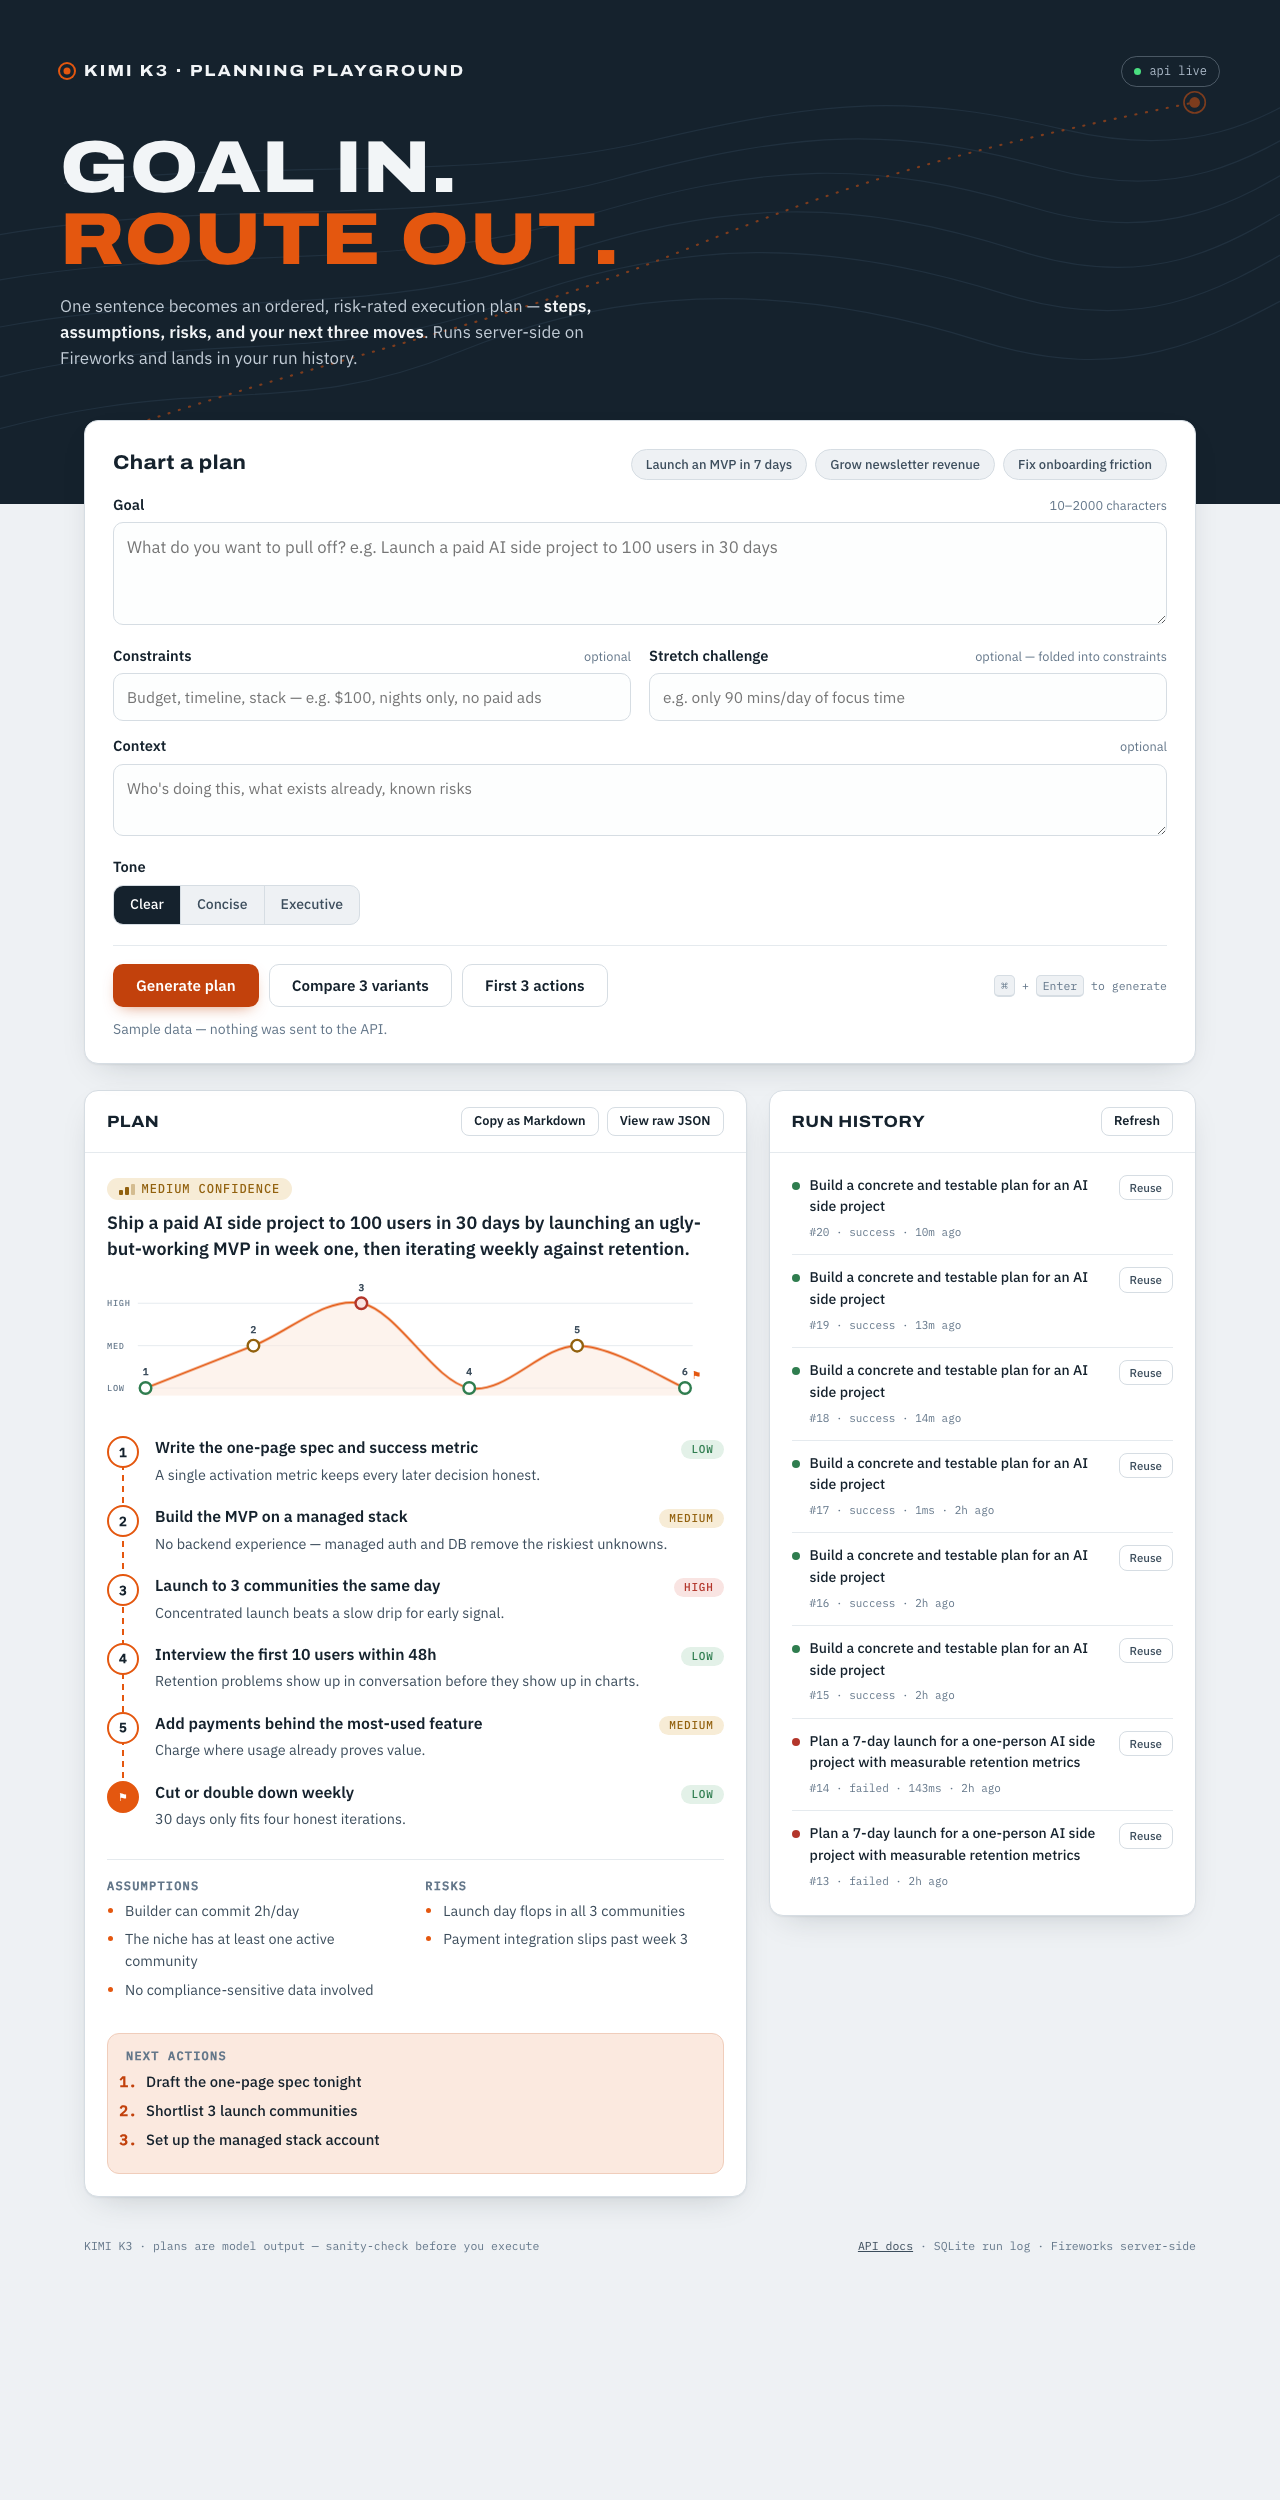
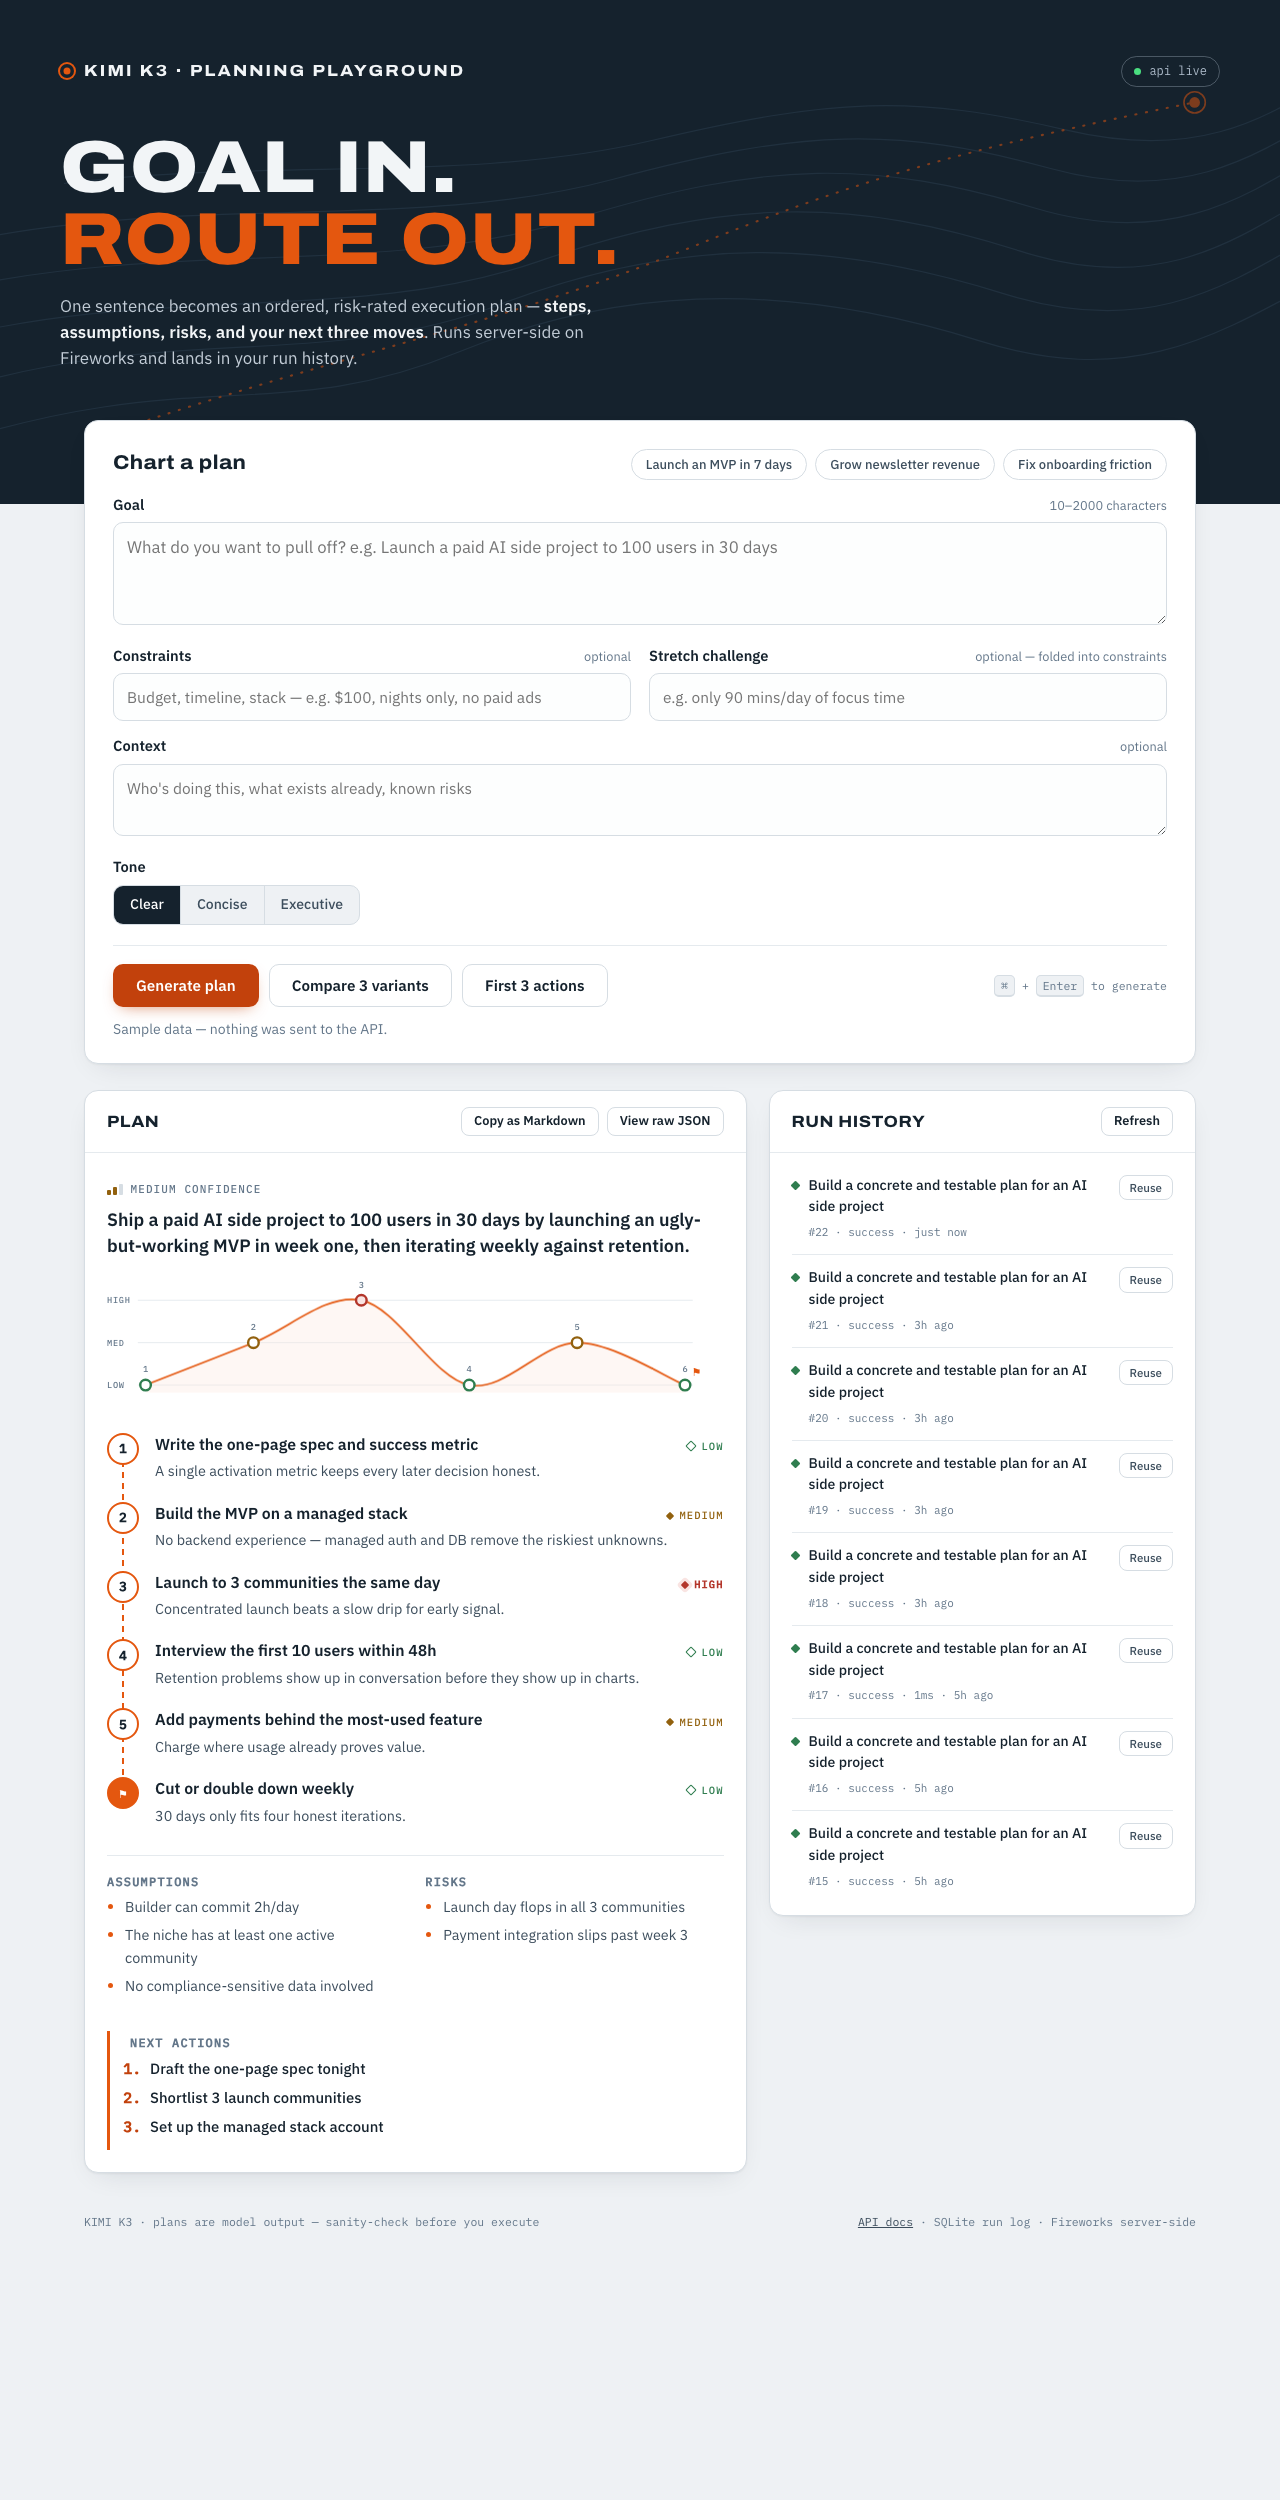
style(ui): polish pass — retire traffic-light pills for editorial risk markers
- risk badges: colored wash pills → typographic mono labels with a diamond
  marker (outline = low, filled = medium, filled + halo = high)
- confidence: colored pill → neutral mono label, severity carried by the
  bars alone
- next-actions: orange wash box → editorial left-rule block
- meta line: drop the invented score chip; quieter status chip
- run-history dots become diamonds, echoing the risk markers
- strip: finer trail (1.75), subtler shade (0.35), smaller waypoints
- softer panel shadow; sample chips flattened

Frontend-only. Screenshots 07-09 refreshed.

diff --git a/static/index.html b/static/index.html
@@ -31,7 +31,7 @@
         --sans: "IBM Plex Sans", system-ui, -apple-system, "Segoe UI", sans-serif;
         --display: "Archivo", "Archivo Black", var(--sans);
         --radius: 14px;
-        --shadow: 0 1px 2px rgba(21, 34, 45, 0.06), 0 12px 32px -16px rgba(21, 34, 45, 0.25);
+        --shadow: 0 1px 2px rgba(21, 34, 45, 0.05), 0 10px 28px -14px rgba(21, 34, 45, 0.16);
       }
 
       * { box-sizing: border-box; }
@@ -178,14 +178,14 @@
       .sample-chip {
         font: 500 13px/1 var(--sans);
         color: var(--ink-soft);
-        background: var(--paper);
+        background: transparent;
         border: 1px solid var(--line);
         border-radius: 999px;
         padding: 8px 14px;
         cursor: pointer;
-        transition: border-color 120ms ease, color 120ms ease, background 120ms ease;
+        transition: border-color 120ms ease, color 120ms ease;
       }
-      .sample-chip:hover { border-color: var(--signal); color: var(--signal); background: var(--signal-wash); }
+      .sample-chip:hover { border-color: var(--signal); color: var(--signal); }
 
       .field { margin-top: 14px; }
       .field label {
@@ -376,7 +376,8 @@
         border: 1px solid var(--line);
         color: var(--ink-soft);
       }
-      .chip.status-success { background: var(--risk-low-wash); border-color: transparent; color: var(--risk-low); }
+      .chip.status-success { background: transparent; border-color: var(--line-soft); color: var(--risk-low); }
+      .chip.status-sample { background: transparent; border-color: var(--line-soft); color: var(--ink-faint); }
 
       .budget {
         display: flex;
@@ -401,25 +402,21 @@
       .confidence {
         display: inline-flex;
         align-items: center;
-        gap: 7px;
-        font: 500 12px/1 var(--mono);
+        gap: 8px;
+        font: 500 11px/1 var(--mono);
         text-transform: uppercase;
-        letter-spacing: 0.08em;
-        border-radius: 999px;
-        padding: 5px 12px;
-        margin-bottom: 10px;
+        letter-spacing: 0.1em;
+        color: var(--ink-faint);
+        margin-bottom: 12px;
       }
       .confidence .bars { display: inline-flex; gap: 2.5px; align-items: flex-end; }
-      .confidence .bars i { width: 3.5px; border-radius: 1px; background: currentColor; opacity: 0.35; }
+      .confidence .bars i { width: 3.5px; border-radius: 1px; background: var(--line); }
       .confidence .bars i:nth-child(1) { height: 5px; }
       .confidence .bars i:nth-child(2) { height: 8px; }
       .confidence .bars i:nth-child(3) { height: 11px; }
-      .confidence.c-low i:nth-child(1) { opacity: 1; }
-      .confidence.c-medium i:nth-child(-n+2) { opacity: 1; }
-      .confidence.c-high i { opacity: 1; }
-      .confidence.c-low { background: var(--risk-high-wash); color: var(--risk-high); }
-      .confidence.c-medium { background: var(--risk-med-wash); color: var(--risk-med); }
-      .confidence.c-high { background: var(--risk-low-wash); color: var(--risk-low); }
+      .confidence.c-low i:nth-child(1) { background: var(--risk-high); }
+      .confidence.c-medium i:nth-child(-n+2) { background: var(--risk-med); }
+      .confidence.c-high i { background: var(--risk-low); }
       .summary-block p {
         margin: 0;
         font-size: 1.12rem;
@@ -472,15 +469,26 @@
       .step-head strong { font-size: 0.99rem; }
       .risk {
         flex: none;
-        font: 500 11px/1 var(--mono);
+        display: inline-flex;
+        align-items: center;
+        gap: 6px;
+        font: 500 10.5px/1 var(--mono);
         text-transform: uppercase;
-        letter-spacing: 0.07em;
-        border-radius: 999px;
-        padding: 4px 10px;
+        letter-spacing: 0.1em;
+        padding: 4px 0;
       }
-      .risk-low { background: var(--risk-low-wash); color: var(--risk-low); }
-      .risk-medium { background: var(--risk-med-wash); color: var(--risk-med); }
-      .risk-high { background: var(--risk-high-wash); color: var(--risk-high); }
+      .risk::before {
+        content: "";
+        width: 6px; height: 6px;
+        transform: rotate(45deg);
+        border-radius: 1px;
+      }
+      .risk-low { color: var(--risk-low); }
+      .risk-low::before { border: 1.5px solid var(--risk-low); }
+      .risk-medium { color: var(--risk-med); }
+      .risk-medium::before { background: var(--risk-med); }
+      .risk-high { color: var(--risk-high); font-weight: 600; }
+      .risk-high::before { background: var(--risk-high); box-shadow: 0 0 0 3px var(--risk-high-wash); }
       .step-why {
         margin: 4px 0 0;
         color: var(--ink-soft);
@@ -509,11 +517,9 @@
       .aux li::marker { color: var(--signal-bright); }
 
       .next-actions {
-        margin-top: 26px;
-        padding: 16px 18px;
-        background: var(--signal-wash);
-        border: 1px solid #f0cdbb;
-        border-radius: 12px;
+        margin-top: 28px;
+        padding: 6px 0 6px 20px;
+        border-left: 3px solid var(--signal-bright);
       }
       .next-actions ol { margin: 0; padding-left: 20px; }
       .next-actions li { margin-bottom: 6px; font-weight: 500; font-size: 0.93rem; }
@@ -669,8 +675,9 @@
       .history-list li:last-child { border-bottom: 0; padding-bottom: 2px; }
       .run-dot {
         flex: none;
-        width: 8px; height: 8px;
-        border-radius: 50%;
+        width: 7px; height: 7px;
+        border-radius: 1px;
+        transform: rotate(45deg);
         margin-top: 7px;
       }
       .run-dot.success { background: var(--risk-low); }
@@ -742,12 +749,12 @@
       .strip .trail {
         fill: none;
         stroke: var(--signal-bright);
-        stroke-width: 2;
+        stroke-width: 1.75;
         stroke-linecap: round;
       }
       .strip .trail-shade {
         fill: var(--signal-wash);
-        opacity: 0.55;
+        opacity: 0.35;
         stroke: none;
       }
       .strip .wp { cursor: pointer; outline: none; }
@@ -757,8 +764,8 @@
       .strip .wp.r-medium circle.core { stroke: var(--risk-med); }
       .strip .wp.r-high circle.core { stroke: var(--risk-high); fill: var(--risk-high-wash); }
       .strip .wp text {
-        font: 600 10px var(--mono);
-        fill: var(--ink-soft);
+        font: 500 9px var(--mono);
+        fill: var(--ink-faint);
         text-anchor: middle;
       }
       .strip .wp:hover .halo,
@@ -780,7 +787,7 @@
         animation-delay: calc(140ms + 110ms * var(--i, 0));
       }
       @keyframes trail-draw { to { stroke-dashoffset: 0; } }
-      @keyframes shade-in { to { opacity: 0.55; } }
+      @keyframes shade-in { to { opacity: 0.35; } }
       @keyframes wp-pop { from { opacity: 0; transform: translateY(5px); } to { opacity: 1; transform: none; } }
 
       /* strip ↔ step-card two-way highlight */
@@ -1163,7 +1170,6 @@
       /* ---------- rendering ---------- */
       function renderMeta(data) {
         runMeta.hidden = false;
-        const score = computeScore(data.data || {});
         let budget = "";
         if (data.daily_spend_usd != null && data.daily_budget_usd != null) {
           const pct = Math.min(100, (Number(data.daily_spend_usd) / Number(data.daily_budget_usd)) * 100);
@@ -1175,8 +1181,7 @@
           `<span class="chip status-${escapeHtml(data.status || "success")}">${escapeHtml(data.status || "success")}</span>` +
           `<span>run #${escapeHtml(String(data.id))}</span>` +
           `<span>${escapeHtml(String(data.latency_ms))}ms</span>` +
-          `<span title="${escapeHtml(data.model || "")}">${escapeHtml(shortModel(data.model))}</span>` +
-          `<span>score ${score}/100</span>` + budget;
+          `<span title="${escapeHtml(data.model || "")}">${escapeHtml(shortModel(data.model))}</span>` + budget;
         runMeta.style.marginBottom = "18px";
       }
 
@@ -1256,8 +1261,8 @@
         const dots = pts.map((p) =>
           `<g class="wp r-${p.risk}" data-step="${p.i}" tabindex="0" role="button" style="--i:${p.i}"` +
           ` aria-label="Step ${escapeHtml(String(p.step))}: ${encodeAttr(p.action)} — ${p.risk} risk. Jump to step.">` +
-          `<circle class="halo" cx="${p.x.toFixed(1)}" cy="${p.y.toFixed(1)}" r="12" />` +
-          `<circle class="core" cx="${p.x.toFixed(1)}" cy="${p.y.toFixed(1)}" r="6" />` +
+          `<circle class="halo" cx="${p.x.toFixed(1)}" cy="${p.y.toFixed(1)}" r="11" />` +
+          `<circle class="core" cx="${p.x.toFixed(1)}" cy="${p.y.toFixed(1)}" r="5.5" />` +
           (mini ? "" : `<text x="${p.x.toFixed(1)}" y="${(p.y - 13).toFixed(1)}">${escapeHtml(String(p.step))}</text>`) +
           `</g>`
         ).join("");
